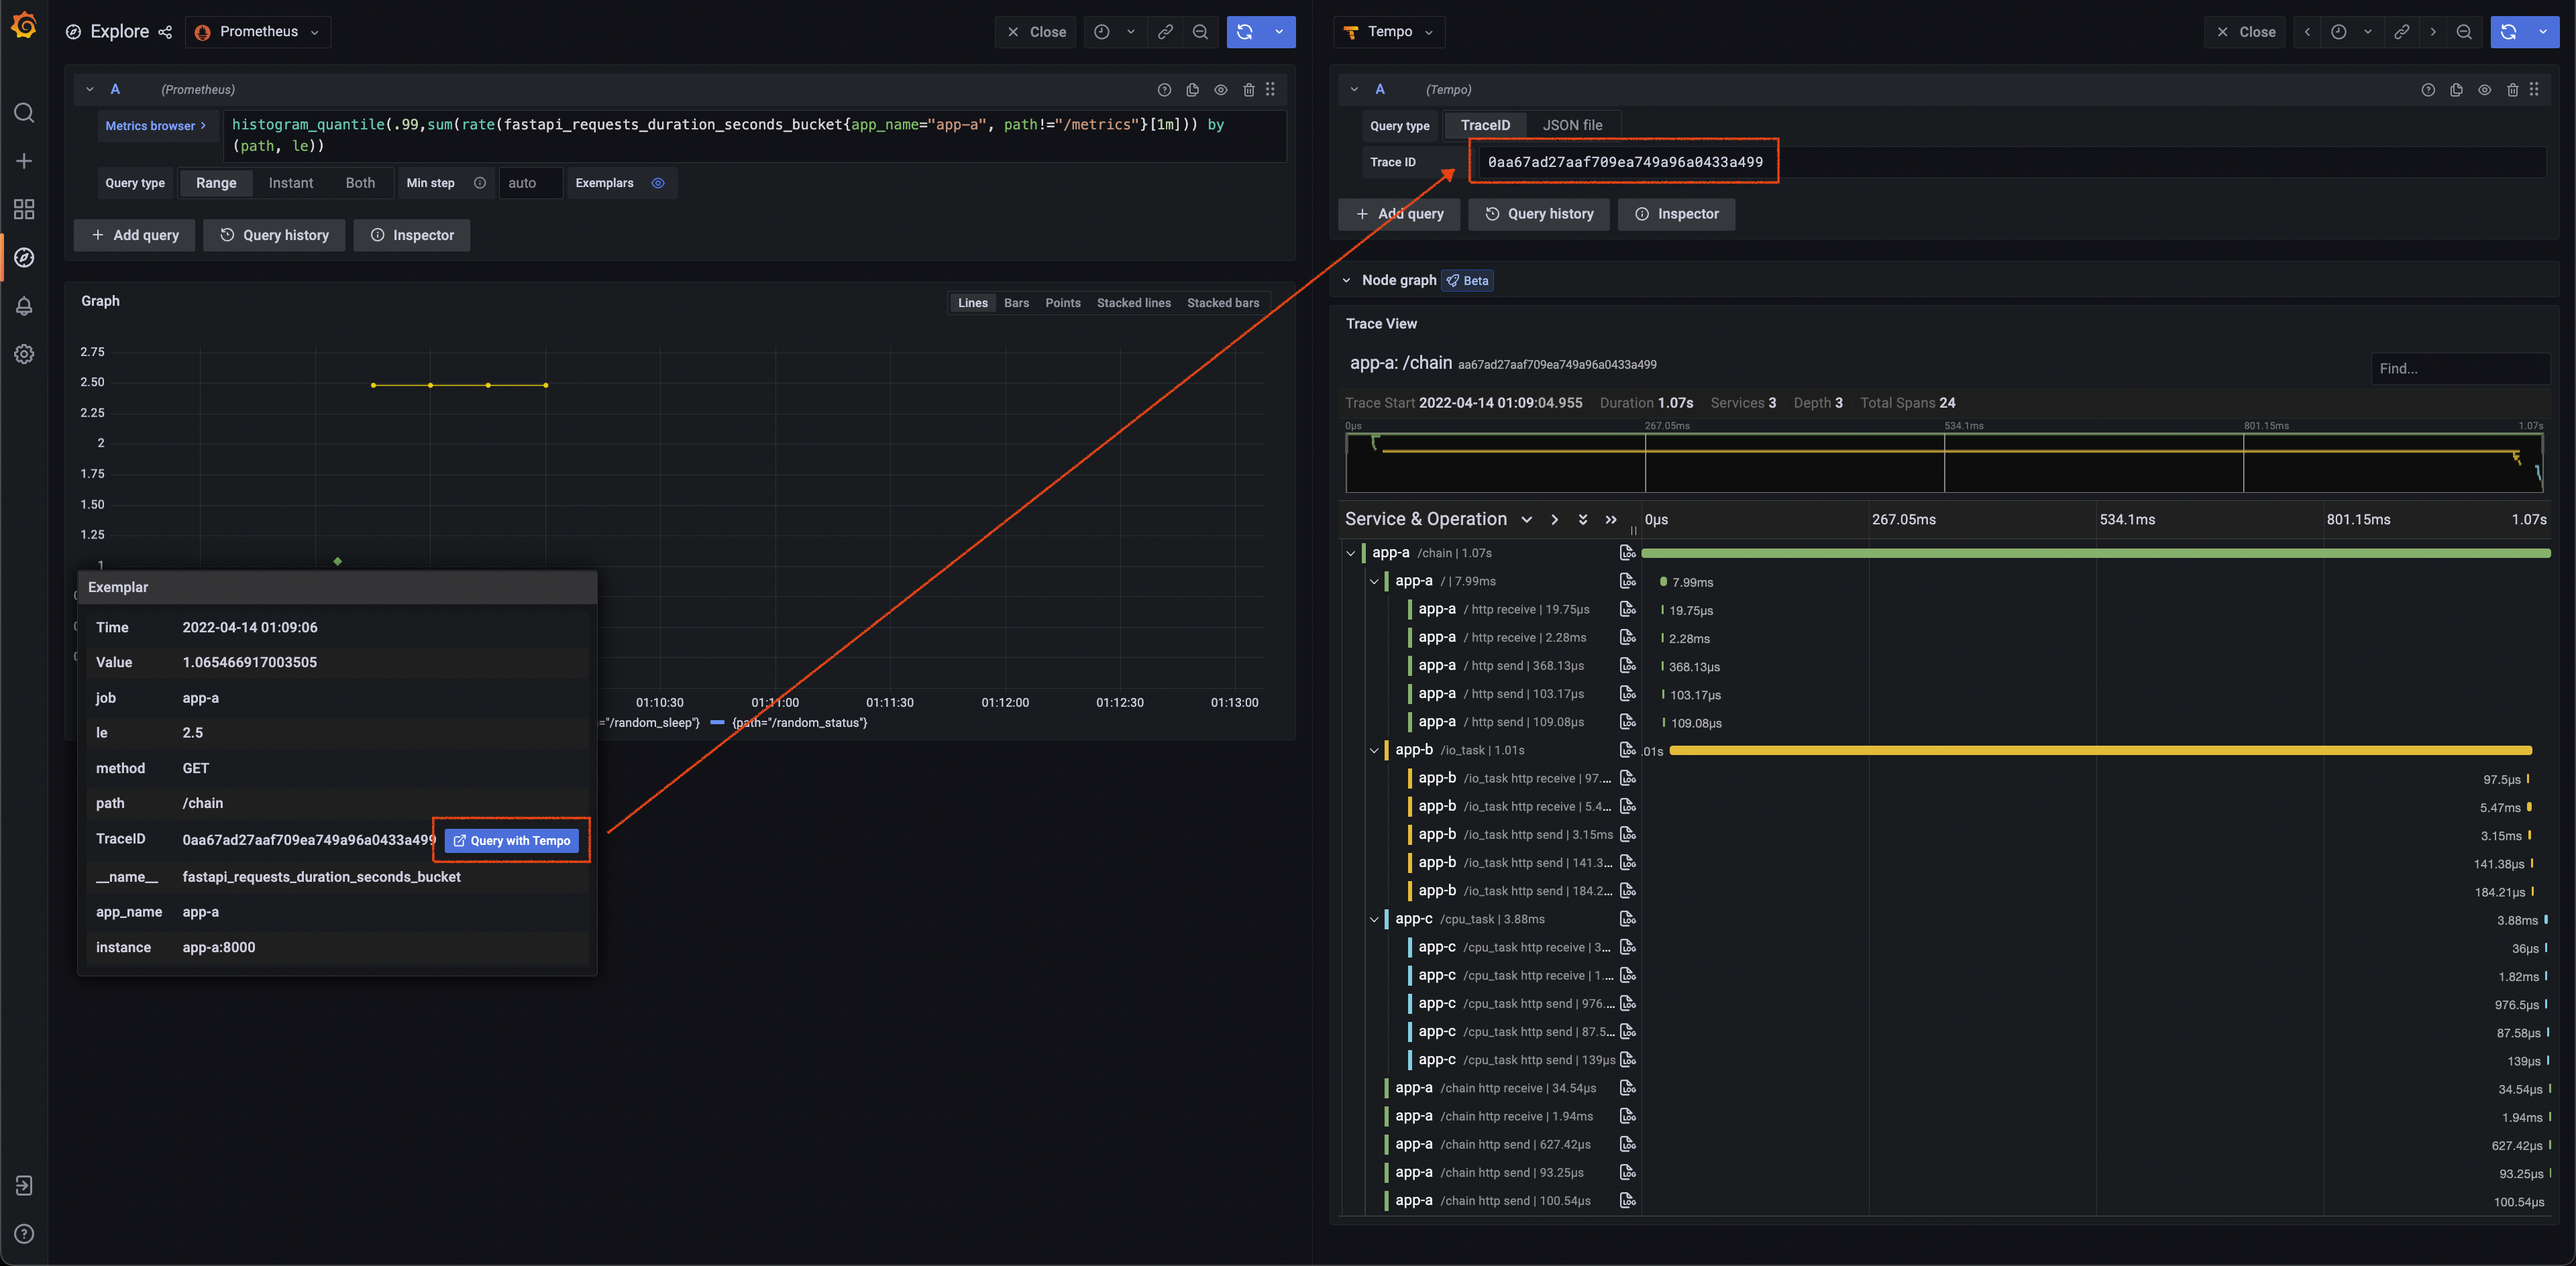
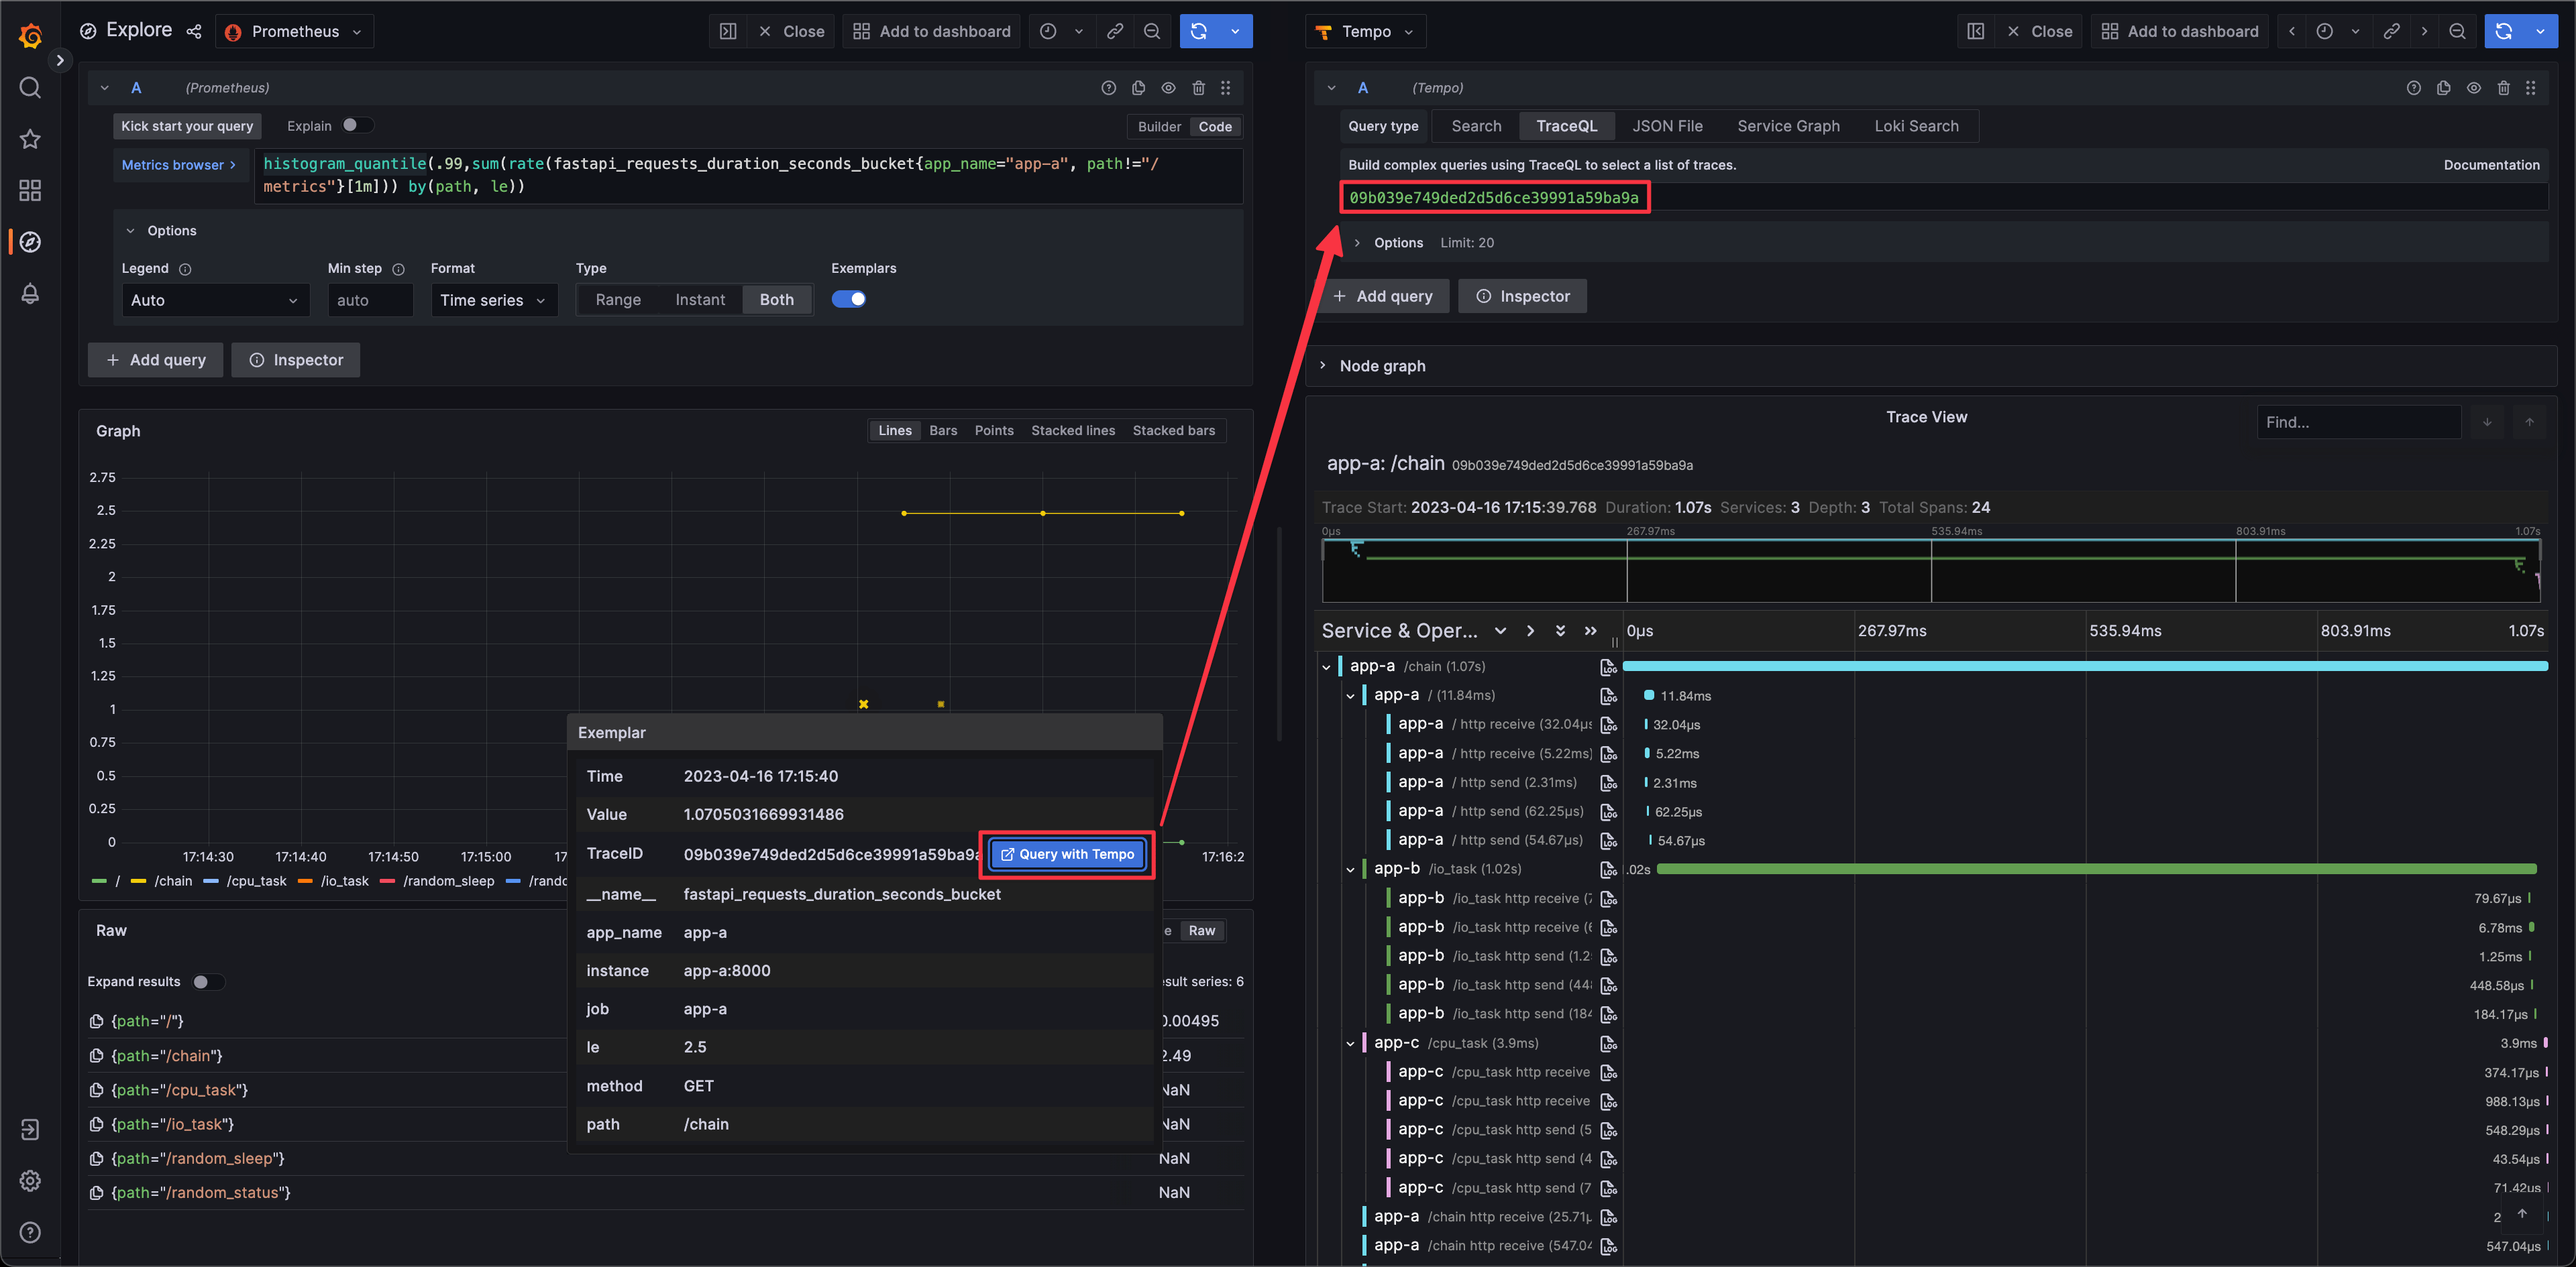
Update dependencies and images

diff --git a/readme.md b/readme.md
@@ -379,7 +379,7 @@ editable: true
 ```yaml
 # grafana in docker-compose.yaml
 grafana:
-   image: grafana/grafana:9.1.7
+   image: grafana/grafana:9.3.7
    volumes:
       - ./etc/grafana/:/etc/grafana/provisioning/datasources # data sources
       - ./etc/dashboards.yaml:/etc/grafana/provisioning/dashboards/dashboards.yaml # dashboard setting
